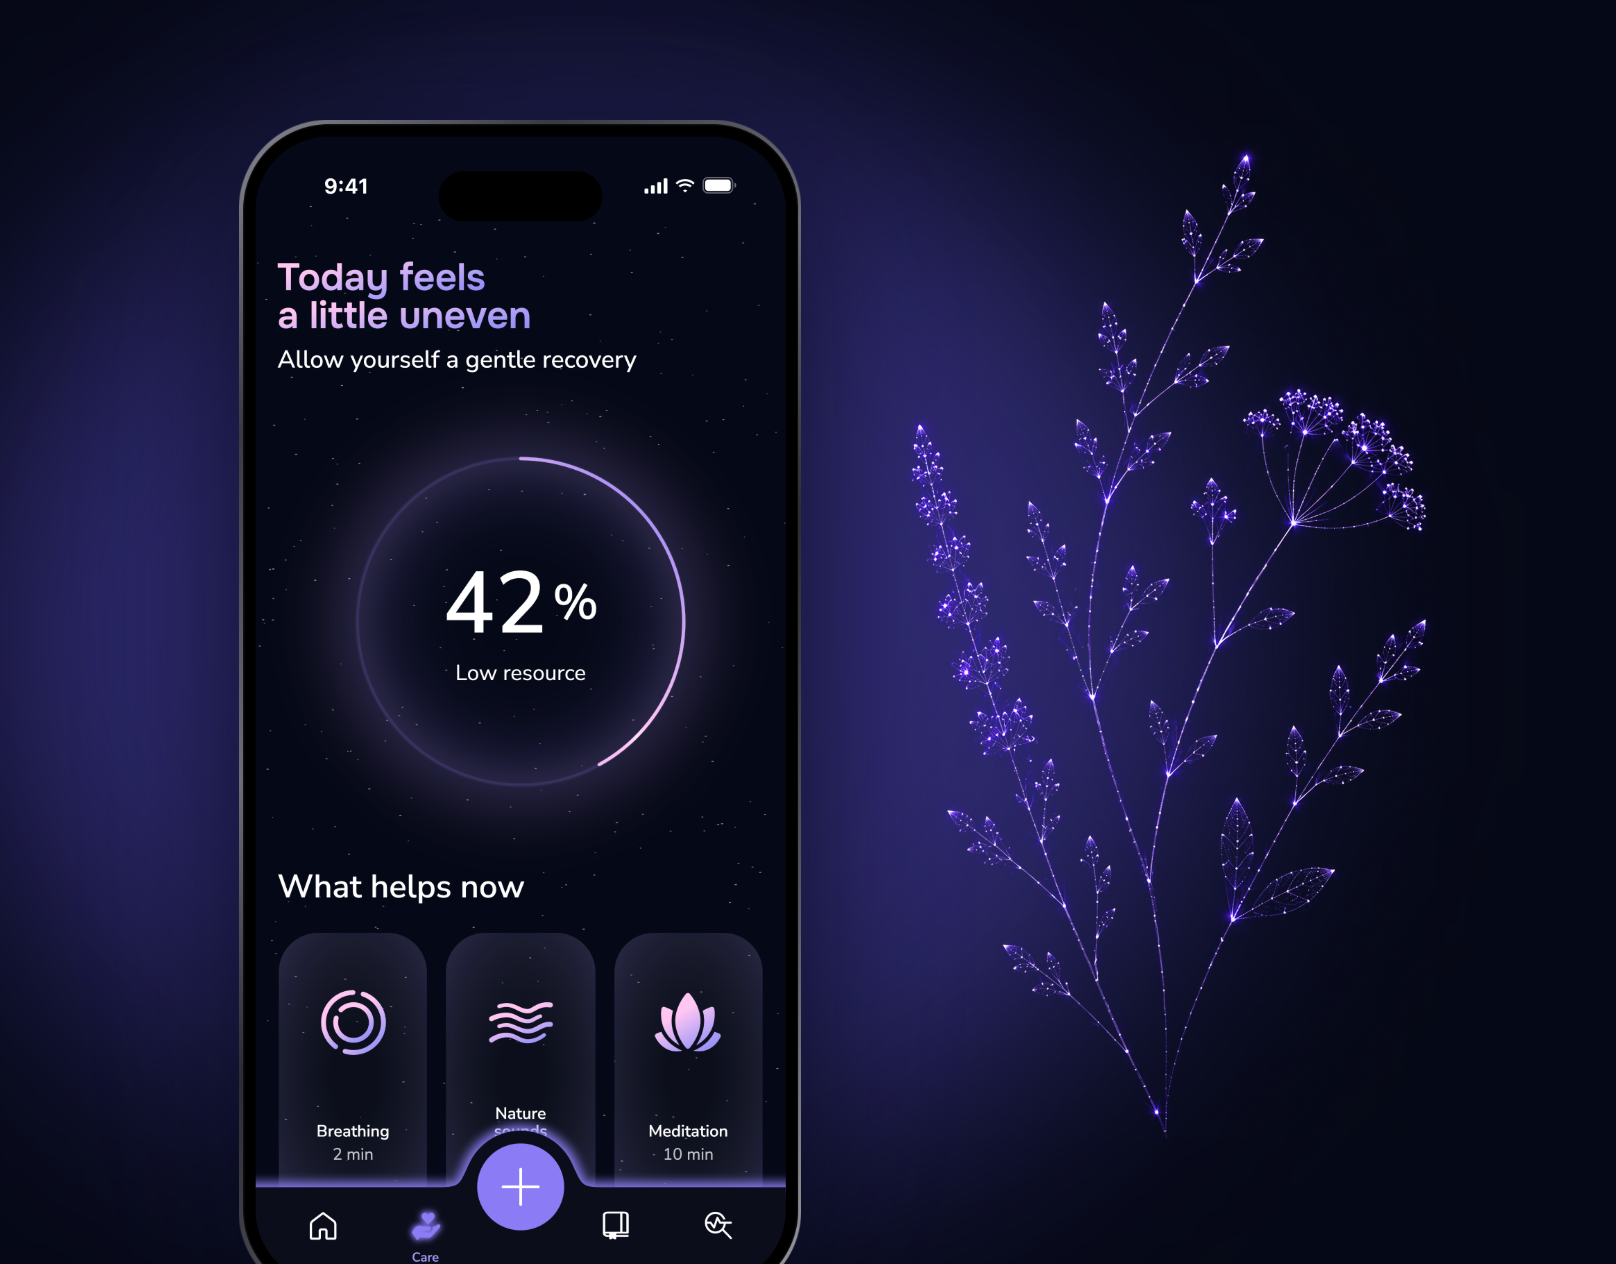
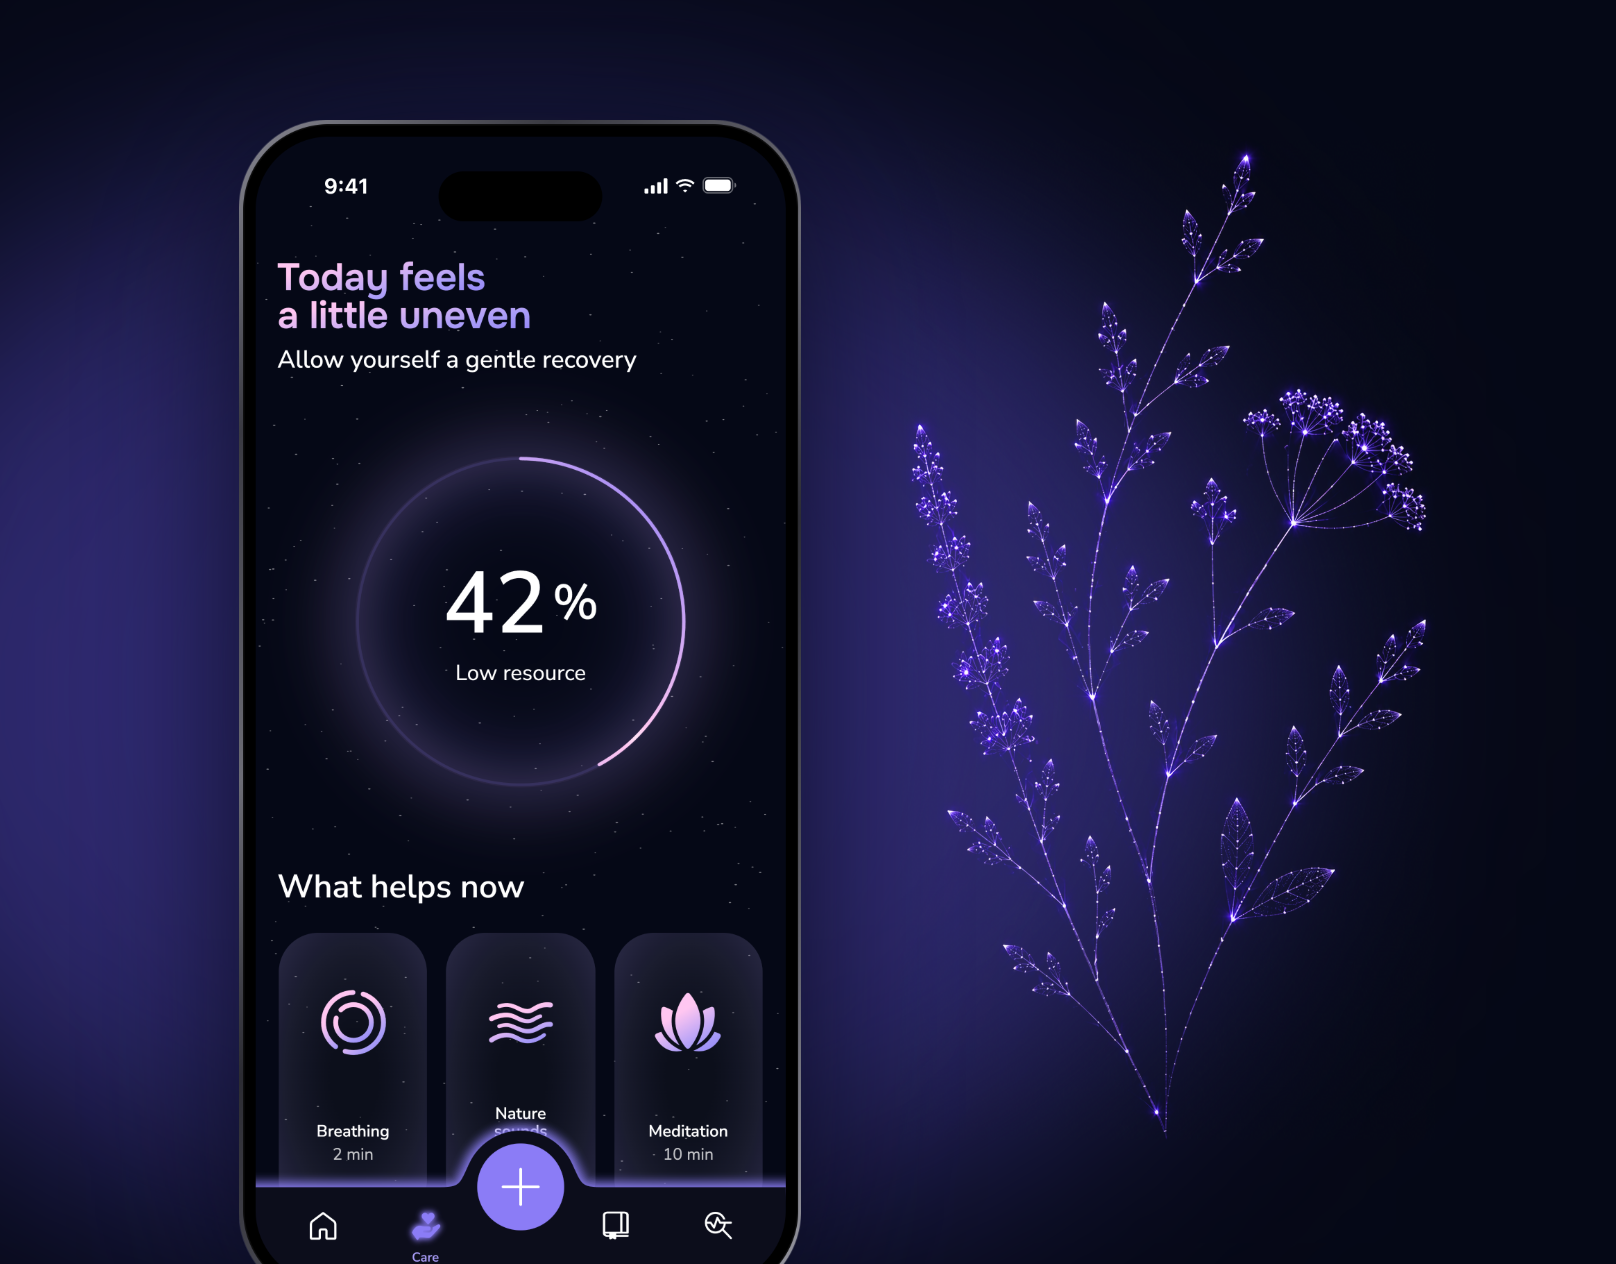
Behance case: project cover light centred on the phone

Changed region(s): [[0.0, 0.2468, 0.1238, 0.9565]]

diff --git a/Behance кейс/Обложка/превью-проекта/cover-options.html b/Behance кейс/Обложка/превью-проекта/cover-options.html
@@ -34,8 +34,10 @@ const phone = (src, cx, top, h, ratio = 1620 / 3400) => `<img class="ph" src="${
 const D = lights => lights + phone(TH + 'phone-care.png', 520, 120, 1180) + `<img class="abs" src="${P}evening-calm-herbs-hi.png" style="left:900px; top:140px; height:1000px">`;
 
 // one light behind the phone, an ellipse stretched to the right so its soft edge reaches under the herb (her ask, 11-14)
-put('DF', D(`<div class="glow" style="left:${600 - 640}px; top:${640 - 560}px; width:1280px; height:1120px; background:#4C41B0; opacity:.55"></div>` +
-  `<div class="glow" style="left:${560 - 380}px; top:${600 - 380}px; width:760px; height:760px; background:#4C41B0; opacity:.25"></div>`));
+// centred on the phone (x 520, visible centre y ≈ 692); wide enough that its soft edge still reaches under the herb
+const PX = 520, PY = 692;
+put('DF', D(`<div class="glow" style="left:${PX - 760}px; top:${PY - 560}px; width:1520px; height:1120px; background:#4C41B0; opacity:.55"></div>` +
+  `<div class="glow" style="left:${PX - 380}px; top:${PY - 380}px; width:760px; height:760px; background:#4C41B0; opacity:.25"></div>`));
 
 const feed = document.getElementById('feed');
 for (const id of ['DF']) { const src = document.getElementById(id);  feed.insertAdjacentHTML('beforeend', `<div class="t"><div class="img">${src.outerHTML.replace(`id="${id}"`, '')}</div><div class="cap">Soma · Wellness App UX/UI Case Study<span>Anastasia Kokyrtsa · ${id}</span></div></div>`); }
